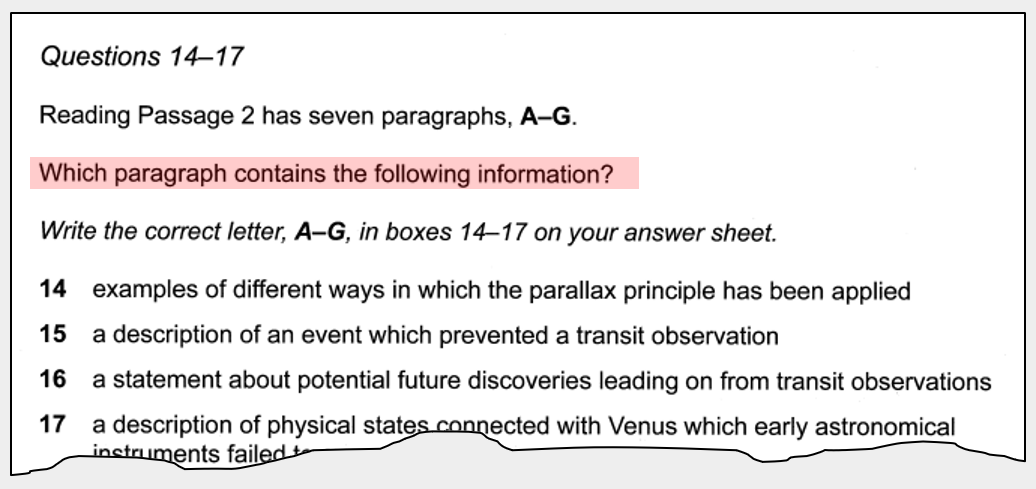
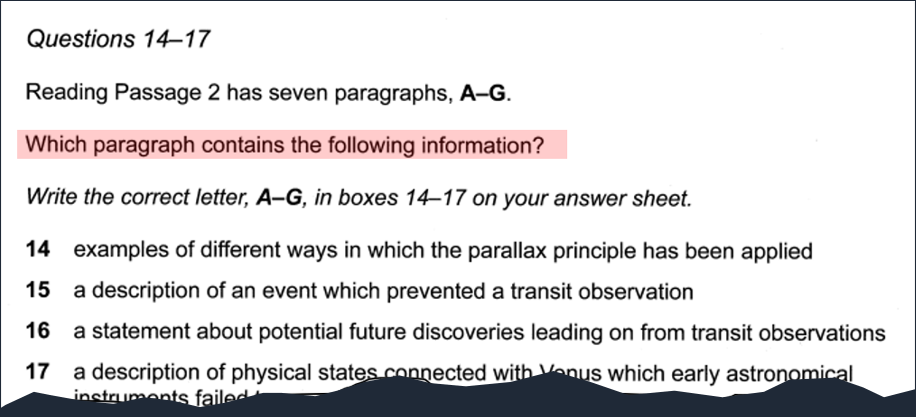
Add educational content to the lesson page
Add educational content, including "What to Expect," "Key Strategies," and "Common Pitfalls," to the `src/routes/IETPP/lesson-02/lesson02-i/+page.svelte` file to enhance the learning experience for matching information exercises.

Replit-Commit-Author: Agent
Replit-Commit-Session-Id: 74816d04-126f-4f02-b1ae-897070d8ef95
Replit-Commit-Checkpoint-Type: full_checkpoint
Replit-Commit-Screenshot-Url: https://storage.googleapis.com/screenshot-production-us-central1/0630d205-839c-474a-aeb3-e30da51c8af1/74816d04-126f-4f02-b1ae-897070d8ef95/HWbioRO

Changed region(s): [[0.0, 0.0, 1.0, 1.0], [0.5197, 0.4365, 0.7642, 0.4988]]

diff --git a/src/routes/IETPP/lesson-02/lesson02-i/+page.svelte b/src/routes/IETPP/lesson-02/lesson02-i/+page.svelte
@@ -76,17 +76,62 @@
 
                                 <div class="space-y-6">
                                         <div>
+                                                <h3 class="text-lg font-semibold text-gray-800 dark:text-gray-200 mb-3">What to Expect</h3>
                                                 <p class="text-gray-700 dark:text-gray-300 text-lg mb-4">
                                                         <strong>Matching information</strong> question sets usually appear at the beginning of a section. Each paragraph in the text will be assigned an alphabetical letter and the questions will ask you to locate the paragraph containing specific information. The skill is to be able to skim the whole passage quickly for gist, to get a rough understanding of what each paragraph is about, before scanning for specific key-word terms to allow you to confirm your answer.
                                                 </p>
                                         </div>
 
+                                        <div>
+                                                <h3 class="text-lg font-semibold text-gray-800 dark:text-gray-200 mb-3">Key Strategies</h3>
+                                                <div class="bg-teal-50 dark:bg-teal-900/20 border border-teal-200 dark:border-teal-800 rounded-lg p-4">
+                                                        <ul class="space-y-2 text-gray-700 dark:text-gray-300">
+                                                                <li class="flex items-start">
+                                                                        <span class="text-teal-600 dark:text-teal-400 mr-2">1.</span>
+                                                                        <span><strong>Skim first:</strong> Read the passage quickly to understand the main idea of each paragraph</span>
+                                                                </li>
+                                                                <li class="flex items-start">
+                                                                        <span class="text-teal-600 dark:text-teal-400 mr-2">2.</span>
+                                                                        <span><strong>Identify keywords:</strong> Underline key words and phrases in the questions</span>
+                                                                </li>
+                                                                <li class="flex items-start">
+                                                                        <span class="text-teal-600 dark:text-teal-400 mr-2">3.</span>
+                                                                        <span><strong>Scan for synonyms:</strong> Look for synonyms and paraphrases, not just exact matches</span>
+                                                                </li>
+                                                                <li class="flex items-start">
+                                                                        <span class="text-teal-600 dark:text-teal-400 mr-2">4.</span>
+                                                                        <span><strong>Work systematically:</strong> Focus on one question at a time to avoid confusion</span>
+                                                                </li>
+                                                        </ul>
+                                                </div>
+                                        </div>
+
+                                        <div>
+                                                <h3 class="text-lg font-semibold text-gray-800 dark:text-gray-200 mb-3">Common Pitfalls</h3>
+                                                <div class="bg-red-50 dark:bg-red-900/20 border border-red-200 dark:border-red-800 rounded-lg p-4">
+                                                        <ul class="space-y-2 text-gray-700 dark:text-gray-300">
+                                                                <li class="flex items-start">
+                                                                        <span class="text-red-600 dark:text-red-400 mr-2">⚠</span>
+                                                                        <span>Looking for exact word matches instead of synonyms and paraphrases</span>
+                                                                </li>
+                                                                <li class="flex items-start">
+                                                                        <span class="text-red-600 dark:text-red-400 mr-2">⚠</span>
+                                                                        <span>Using the same paragraph letter more than once when not allowed</span>
+                                                                </li>
+                                                                <li class="flex items-start">
+                                                                        <span class="text-red-600 dark:text-red-400 mr-2">⚠</span>
+                                                                        <span>Spending too much time on difficult questions and running out of time</span>
+                                                                </li>
+                                                        </ul>
+                                                </div>
+                                        </div>
+
                                         <div class="flex justify-center mb-6">
                                                 <img
-                                                        src="/LESSONS/les02/02(i)/Matching_info-exQ.png"
+                                                        src="/reading-images/ielts-reading-matching.png"
                                                         alt="IELTS Reading - Matching information"
                                                         class="w-full max-w-lg rounded border border-gray-600 cursor-pointer"
-                                                        on:click={() => openLightbox('/LESSONS/les02/02(i)/Matching_info-exQ.png')}
+                                                        on:click={() => openLightbox('/reading-images/ielts-reading-matching.png')}
                                                 />
                                         </div>
 
@@ -109,10 +154,10 @@
 
                                                 <div class="flex justify-center mb-6">
                                                         <img
-                                                                src="/reading-images/ielts-reading-headings.png"
+                                                                src="/LESSONS/les02/02(i)/Matching_info-techQ.png"
                                                                 alt="IELTS Reading - technique questions"
                                                                 class="w-full max-w-2xl rounded border-2 border-black cursor-pointer"
-                                                                on:click={() => openLightbox('/reading-images/ielts-reading-headings.png')}
+                                                                on:click={() => openLightbox('/LESSONS/les02/02(i)/Matching_info-techQ.png')}
                                                         />
                                                 </div>
                                         </div>
@@ -125,16 +170,16 @@
                                                 <div class="flex justify-center mb-6">
                                                         <div class="flex flex-col items-center">
                                                                 <img
-                                                                        src="/reading-images/ielts-reading-features.png"
+                                                                        src="/LESSONS/les02/02(i)/Matching_info-tech1.png"
                                                                         alt="IELTS Reading - scanning technique"
                                                                         class="w-full max-w-2xl rounded-t border-2 border-black cursor-pointer mb-1"
-                                                                        on:click={() => openLightbox('/reading-images/ielts-reading-features.png')}
+                                                                        on:click={() => openLightbox('/LESSONS/les02/02(i)/Matching_info-tech1.png')}
                                                                 />
                                                                 <img
-                                                                        src="/reading-images/ielts-reading-completion.png"
+                                                                        src="/LESSONS/les02/02(i)/Matching_info-tech2.png"
                                                                         alt="IELTS Reading - completion technique"
                                                                         class="w-full max-w-2xl rounded-b border-2 border-black cursor-pointer"
-                                                                        on:click={() => openLightbox('/reading-images/ielts-reading-completion.png')}
+                                                                        on:click={() => openLightbox('/LESSONS/les02/02(i)/Matching_info-tech2.png')}
                                                                 />
                                                         </div>
                                                 </div>
@@ -165,10 +210,10 @@
 
                                                 <div class="flex justify-center mb-6">
                                                         <img
-                                                                src="/reading-images/ielts-reading-answer-sheet.jpg"
+                                                                src="/LESSONS/les02/02(i)/Matching_info-techans.png"
                                                                 alt="IELTS Reading - answer sheet"
-                                                                class="w-full max-w-lg rounded border border-gray-600 cursor-pointer"
-                                                                on:click={() => openLightbox('/reading-images/ielts-reading-answer-sheet.jpg')}
+                                                                class="w-full max-w-xs rounded border border-gray-600 cursor-pointer"
+                                                                on:click={() => openLightbox('/LESSONS/les02/02(i)/Matching_info-techans.png')}
                                                         />
                                                 </div>
                                         </div>
